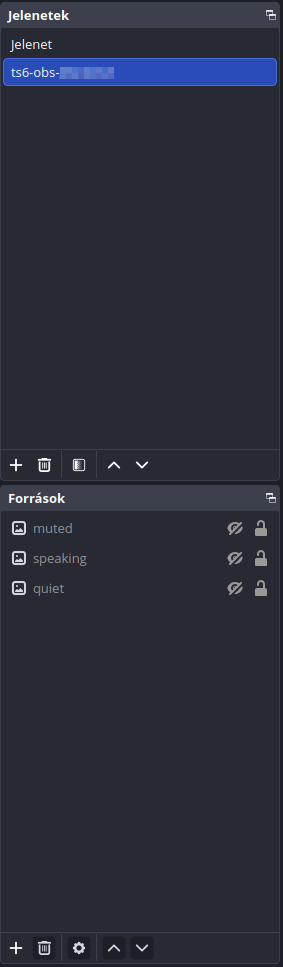
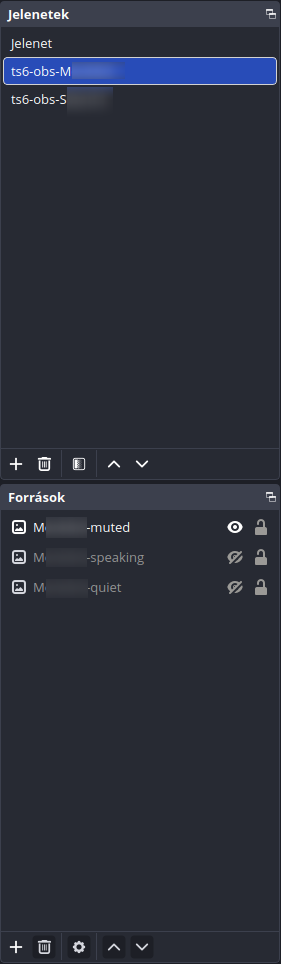
OBS apparently can't have an object with the same name even in two different scenes.

diff --git a/src/modules/OBS/OBSConnector.py b/src/modules/OBS/OBSConnector.py
@@ -164,7 +164,7 @@ class OBSConnector:
             return
         requests = []
         for item in response['d']["responseData"]["sceneItems"]:
-            subitem_name = item["sourceName"]
+            subitem_name = item["sourceName"].split('-')[-1]
             sub_item = SceneItem(itemName=subitem_name, itemId=item["sceneItemId"], enabled=scene_user in self.requested_states and subitem_name == self.requested_states[scene_user].value)
             requests.append(sub_item.get_request(scene.itemName,self.request_id).to_request_dict())
             scene.add_sub_item(sub_item)

diff --git a/README.md b/README.md
@@ -38,9 +38,11 @@ When connected you will be able to click on the "CONNECTED" marker to open a dia
 ## OBS
 In OBS you will need to create a scene for every user with the name `ts6-obs-[USERNAME]` Where `[USERNAME]` should be the exact username on Team Speak.
 Under this scene you can set up the following sources:
- - [muted](#muted)
- - [speaking](#speaking)
- - [quiet](#quiet)
+ - [[ANYTHING]-muted](#muted)
+ - [[ANYTHING]-speaking](#speaking)
+ - [[ANYTHING]-quiet](#quiet)
+
+Where `[ANYTHING]-` is filtered out so you can have multiple scenes set up for multiple users. For ease of use, `[USERNAME]` is recommended.
 
 ![obs_scenes](resources/obs_scenes.png)
 
